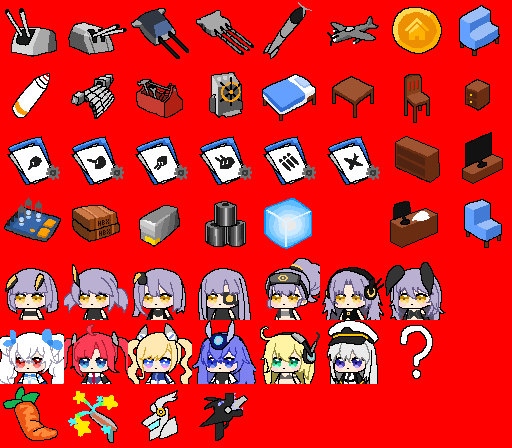
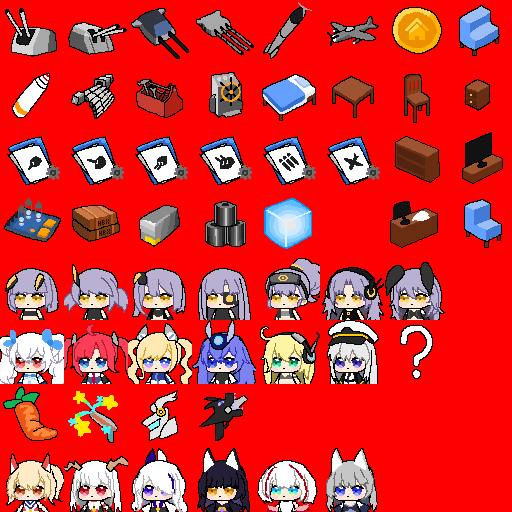
portraits for sakura empire shipgirls

diff --git a/devtools/create_live2d_portrait.py b/devtools/create_live2d_portrait.py
@@ -1,21 +1,38 @@
+import argparse
+import os
 import sys
 import pygame
 
-from ..engine.util import get_rect
-from ..live2d.live2d import Live2D
+sys.path.insert(0, os.path.dirname(os.path.dirname(os.path.abspath(__file__))))
 
-pygame.init()
-screen = pygame.display.set_mode((100,100))
+from engine.util import get_rect
+from live2d.live2d import Live2D, LAYER_SIZE
 
-shipgirl = sys.argv[1]
-live2d = Live2D(f"live2d/{shipgirl}.json")
+if __name__ == "__main__":
+    parser = argparse.ArgumentParser(description="Preview a shipgirl Live2D animation.")
+    parser.add_argument("--shipgirls", nargs="+", type=str, help="Shipgirl names, matching live2d/<shipgirl>.json")
+    args = parser.parse_args()
 
-sprite_size = 96
-sprite = pygame.Surface((sprite_size,sprite_size))
-sprite.fill((255,0,0))
-live2d.draw(sprite, sprite_size/2, sprite_size/2, False)
-portrait_size = 64
-crop = get_rect(width=portrait_size, height=portrait_size, centerx=sprite_size/2, top=0)
-portrait = sprite.subsurface(crop)
+    pygame.init()
+    screen = pygame.display.set_mode((100,100))
 
-pygame.image.save(portrait, f"live2d/{shipgirl}_portrait.png")
+    from src.constants import Box
+
+    num_shipgirls = len(args.shipgirls)
+    if num_shipgirls == 0:
+        sys.exit()
+
+    portraits = pygame.Surface((Box.WIDTH * num_shipgirls, Box.HEIGHT))
+    for i, shipgirl in enumerate(args.shipgirls):
+        live2d = Live2D(f"live2d/{shipgirl}.json")
+        sprite = pygame.Surface((LAYER_SIZE,LAYER_SIZE))
+        sprite.fill((255,0,0))
+        live2d.draw(sprite, LAYER_SIZE/2, LAYER_SIZE/2, False)
+        crop = get_rect(
+            width=Box.WIDTH, height=Box.HEIGHT,
+            centerx=LAYER_SIZE/2, top=0
+        )
+        portrait = sprite.subsurface(crop)
+        portraits.blit(portrait, (Box.WIDTH * i, 0))
+
+    pygame.image.save(portraits, f"live2d/portraits.png")
